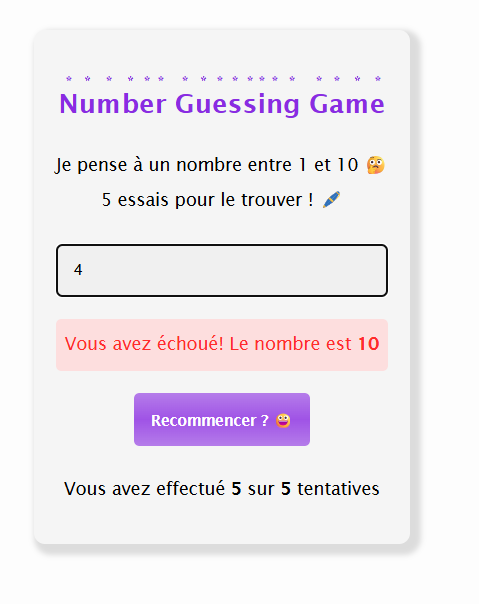
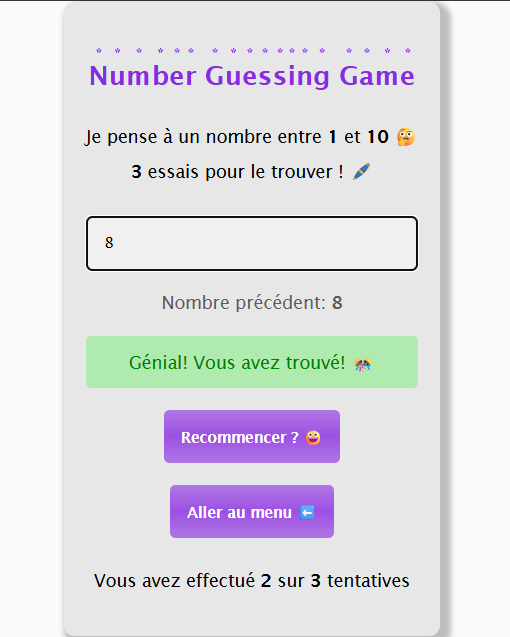
adjust README and clear input after each turn

diff --git a/script.js b/script.js
@@ -1,5 +1,5 @@
-let tentative
-let nombreMax
+let tentative = 0
+let nombreMax = 0
 
 function enregistrerInfos(nombreTentatives, nombreMaximal) {
     tentative = nombreTentatives
@@ -11,8 +11,8 @@ function enregistrerInfos(nombreTentatives, nombreMaximal) {
 
 if (document.getElementById('facile') || document.getElementById('intermediaire') || document.getElementById('difficile')) {
     document.getElementById('facile').addEventListener('click', () => enregistrerInfos(3, 10))
-    document.getElementById('intermediaire').addEventListener('click', () => enregistrerInfos(4,50))
-    document.getElementById('difficile').addEventListener('click', () => enregistrerInfos(5,100))
+    document.getElementById('intermediaire').addEventListener('click', () => enregistrerInfos(4, 50))
+    document.getElementById('difficile').addEventListener('click', () => enregistrerInfos(5, 100))
 }
 
 if (document.getElementById('input-number') || document.getElementById('check-button')) {
@@ -34,6 +34,8 @@ if (document.getElementById('input-number') || document.getElementById('check-bu
     const failureMessage = document.getElementById('failure')
     const answer = document.getElementById('answer')
     const maxNum = document.getElementById('max-num')
+    const nombrePrecedent = document.getElementById('previous-number')
+    const messageNombrePrecedent = document.getElementById('previous-number-message')
 
     const nombre = Math.floor(Math.random() * (nombreMax - 1 + 1)) + 1
     let tour = 0
@@ -48,44 +50,49 @@ if (document.getElementById('input-number') || document.getElementById('check-bu
         tentative--
         tour++
         nombreEssaie.innerText = tour
-        if (tentative > 0) {
-            turnsSection.style.display = "flex"
-            if (nombreEntree == nombre) {
-                resetDisplay()
-                successNumberMessage.style.display = "flex"
-                input.classList.add("success")
-                input.readOnly = true
-                checkButton.disabled = true
-                setTimeout(() => {
-                    checkButton.style.display = "none"
-                    restartButton.style.display = "block"
-                    menuButton.style.display = "block"
-                }, 3000)
-            } else if (nombreEntree > nombre) {
-                resetDisplay()
-                setTimeout(() => {
-                    highNumberMessage.style.display = "flex"
-                    input.classList.add("error")
-                }, 1);
-            } else {
-                resetDisplay()
-                setTimeout(() => {
-                    lowNumberMessage.style.display = "flex"
-                    input.classList.add("error")
-                }, 1);
-            }
-        } else {
+        nombrePrecedent.innerText = nombreEntree
+        messageNombrePrecedent.style.display = "block"
+        turnsSection.style.display = "flex"
+        if (nombreEntree == nombre) {
             resetDisplay()
-            failureMessage.style.display = "flex"
-            answer.innerText = nombre
+            successNumberMessage.style.display = "flex"
+            input.classList.add("success")
+            input.readOnly = true
             checkButton.disabled = true
             setTimeout(() => {
                 checkButton.style.display = "none"
                 restartButton.style.display = "block"
                 menuButton.style.display = "block"
             }, 3000)
-            input.readOnly = true
-        }
+        } else
+            if (tentative > 0) {
+                if (nombreEntree > nombre) {
+                    resetDisplay()
+                    clearInput()
+                    setTimeout(() => {
+                        highNumberMessage.style.display = "flex"
+                        input.classList.add("error")
+                    }, 1);
+                } else {
+                    resetDisplay()
+                    clearInput()
+                    setTimeout(() => {
+                        lowNumberMessage.style.display = "flex"
+                        input.classList.add("error")
+                    }, 1);
+                }
+            } else {
+                resetDisplay()
+                failureMessage.style.display = "flex"
+                answer.innerText = nombre
+                checkButton.disabled = true
+                setTimeout(() => {
+                    checkButton.style.display = "none"
+                    restartButton.style.display = "block"
+                    menuButton.style.display = "block"
+                }, 3000)
+                input.readOnly = true
+            }   
     })
 
     restartButton.addEventListener('click', () => window.location.reload())
@@ -100,5 +107,9 @@ if (document.getElementById('input-number') || document.getElementById('check-bu
         menuButton.style.display = "none"
         input.classList.remove("error")
         input.classList.remove("success")
+    }
+
+    function clearInput() {
+        input.value = ''
     }
 }

diff --git a/style.css b/style.css
@@ -7,7 +7,7 @@
 
 body {
     min-height: 100vh;
-    background: rgba(245, 245, 245, 0.2);
+    background: rgba(245, 245, 245, 0.5);
     display: flex;
     align-items: center;
     justify-content: center;
@@ -19,9 +19,9 @@ main {
     flex-direction: column;
     align-items: center;
     gap: 30px;
-    background: whitesmoke;
+    background: rgba(211, 211, 211, 0.5);
     border-radius: 10px;
-    box-shadow: 5px 5px 5px 5px gainsboro;
+    box-shadow: 5px 5px 5px 5px rgba(128, 128, 128, 0.5);
 }
 
 h2 {
@@ -60,6 +60,11 @@ input {
 input:read-only{
     background: rgb(240, 240, 240);
     cursor: not-allowed;
+}
+
+#previous-number-message{
+    color: rgba(0, 0, 0, 0.6);
+    display: none;
 }
 
 #high-number,

diff --git a/game.html b/game.html
@@ -19,6 +19,7 @@
         <form action="">
             <input type="number" name="input-number" id="input-number" placeholder="Veuillez entrer le nombre ici..."
                 required>
+            <p id="previous-number-message">Nombre précédent: <span id="previous-number">0</span></p>
             <p id="high-number">Trop Haut !</p>
             <p id="low-number">Trop Bas !</p>
             <p id="success-number">Génial! Vous avez trouvé! 🎊</p>

diff --git a/README.md b/README.md
@@ -2,9 +2,15 @@
 
 ## Objectif et Fonctionnement
 
-Un simple jeu réalisé en ***`HTML`***, ***`CSS`*** et ***`JavaScript`*** qui demande à l'utilisateur de deviner un nombre entre 1 et 10 en utlisant seulement 5 essais.
+Un simple jeu réalisé en ***`HTML`***, ***`CSS`*** et ***`JavaScript`*** qui demande à l'utilisateur de deviner un nombre.
 
 En fonction de la réponse de l'utilisateur, il est orienté à choisir un nombre supérieur ou inférieur au nombre qu'il a choisis, jusqu'à ce qu'il trouve le nombre en question.
+
+Le jeu est constituer de *3* niveaux, qui sont :
+
+- ***Facile :*** Trouver un nombre entre **1** et **10** en **3** tentatives.
+- ***Intermédiaire :*** Trouver un nombre entre **1** et **50** en **4** tentatives.
+- ***Difficile :*** Trouver un nombre entre **1** et **100** en **5** tentatives.
 
 Allez-vous parvenir à trouver le nombre ? A vous de jouer ! [Cliquez ici !!!](https://guess-game-chi-jade.vercel.app/)
 
@@ -13,4 +19,9 @@ Allez-vous parvenir à trouver le nombre ? A vous de jouer ! [Cliquez ici !!!](h
 <div style="text-align: center;">
     <img src="img/image.png" alt="Image 1" style="display: inline-block; width: 49%; ">
     <img src="img/image-1.png" alt="Image 2" style="display: inline-block; width: 49%;">
+</div>
+
+<div style="text-align: center;">
+    <img src="img/image-2.png" alt="Image 3" style="display: inline-block; width: 49%; ">
+    <img src="img/image-3.png" alt="Image 4" style="display: inline-block; width: 49%;">
 </div>
